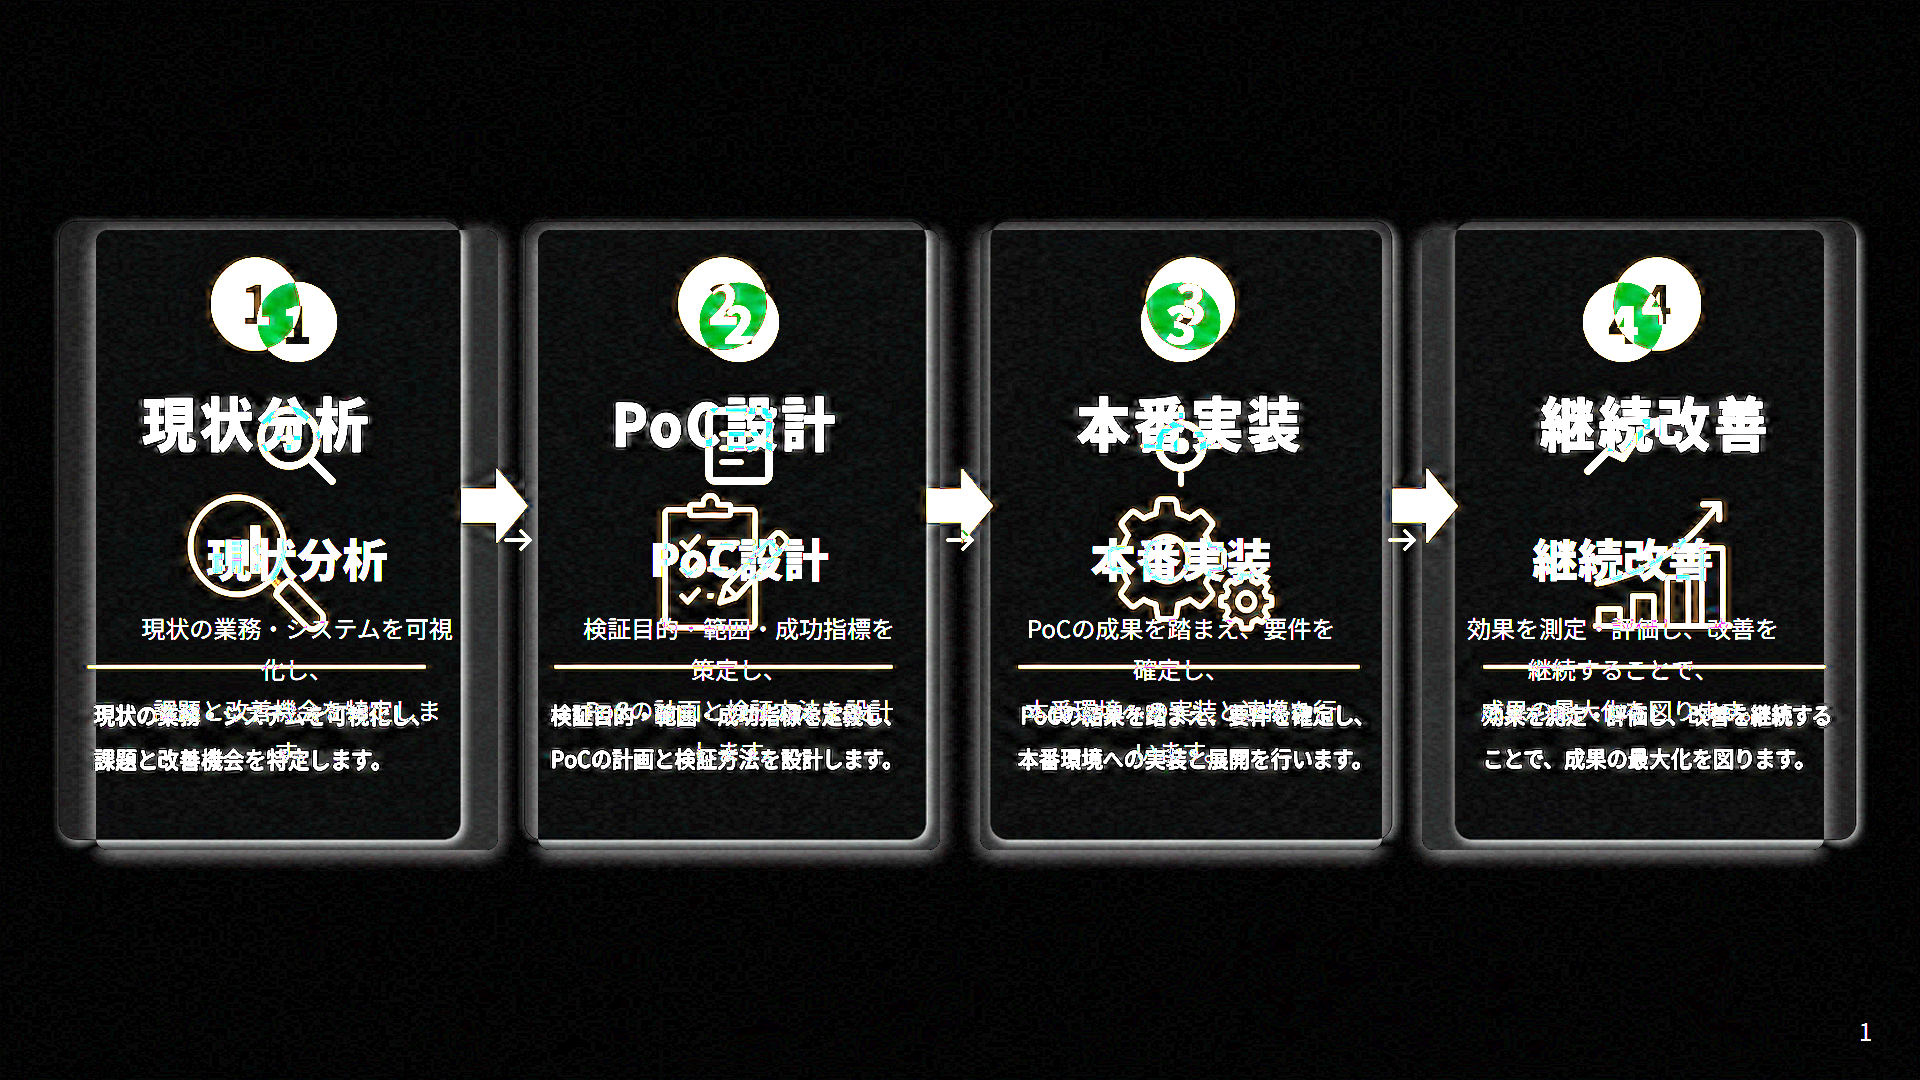
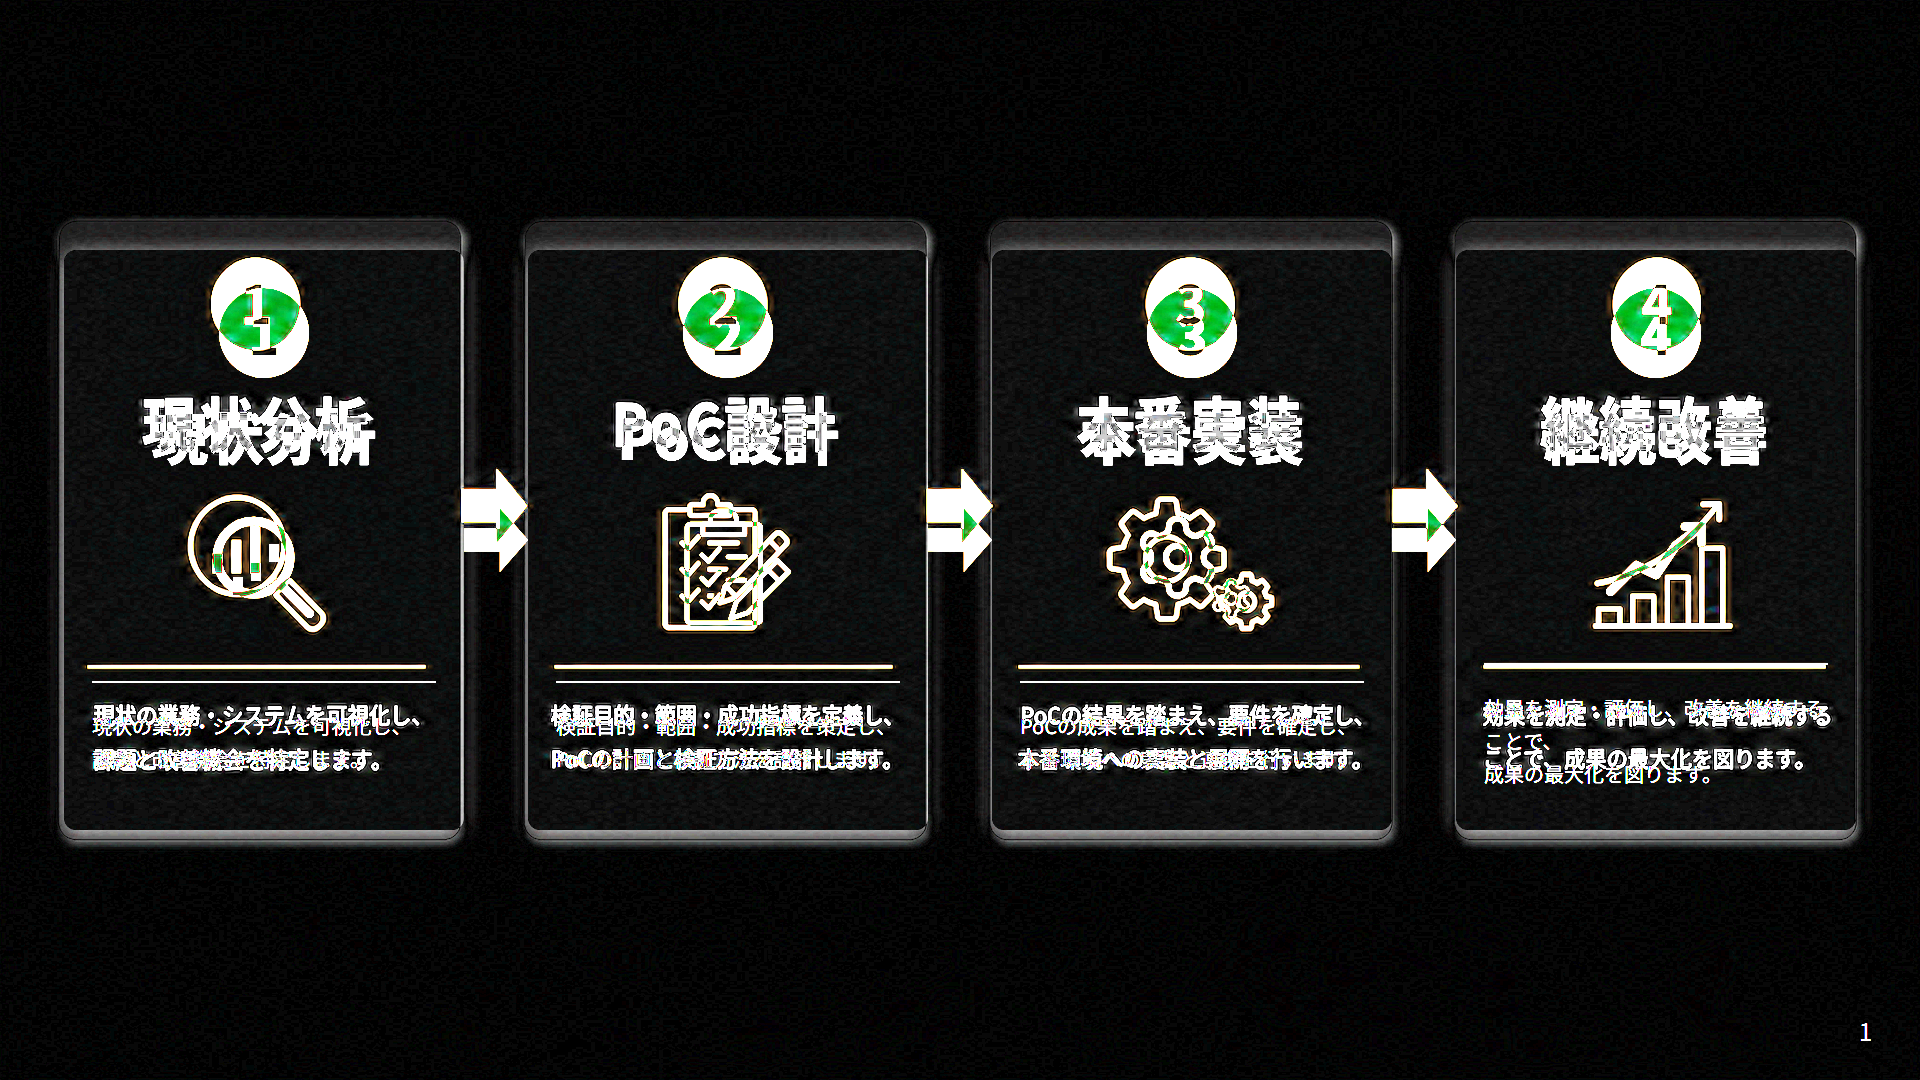
Auto-update: skills/slide-making/test-output2/diff-01.png and 3 more file(s)

Changed region(s): [[0.0312, 0.1833, 0.9688, 0.825]]

diff --git a/skills/slide-making/test-output2/slide-01.html b/skills/slide-making/test-output2/slide-01.html
@@ -39,7 +39,7 @@
       background: #ffffff;
       border-radius: 12px;
       box-shadow: 0 4px 20px rgba(0,0,0,0.10);
-      padding: 38px 32px 52px;
+      padding: 38px 28px 52px;
       display: flex;
       flex-direction: column;
       align-items: center;
@@ -49,7 +49,7 @@
     }
 
     .step-num {
-      width: 80px; height: 80px;
+      width: 90px; height: 90px;
       background: #0071BC;
       color: #fff;
       border-radius: 50%;
@@ -87,7 +87,7 @@
     .step-card:nth-child(3) .step-icon svg { visibility: hidden; }
 
     .step-title {
-      font-size: 34pt;
+      font-size: 42pt;
       font-weight: 900;
       text-align: center;
       color: #1A1A1A;
@@ -97,8 +97,8 @@
     .step-body {
       font-size: 15pt;
       width: 100%;
-      border-top: 3px solid #0071BC;
-      margin-top: 28px;
+      border-top: 2px solid #0071BC;
+      margin-top: 14px;
       padding: 26px 0 0;
       text-align: left;
       color: #1A1A1A;
